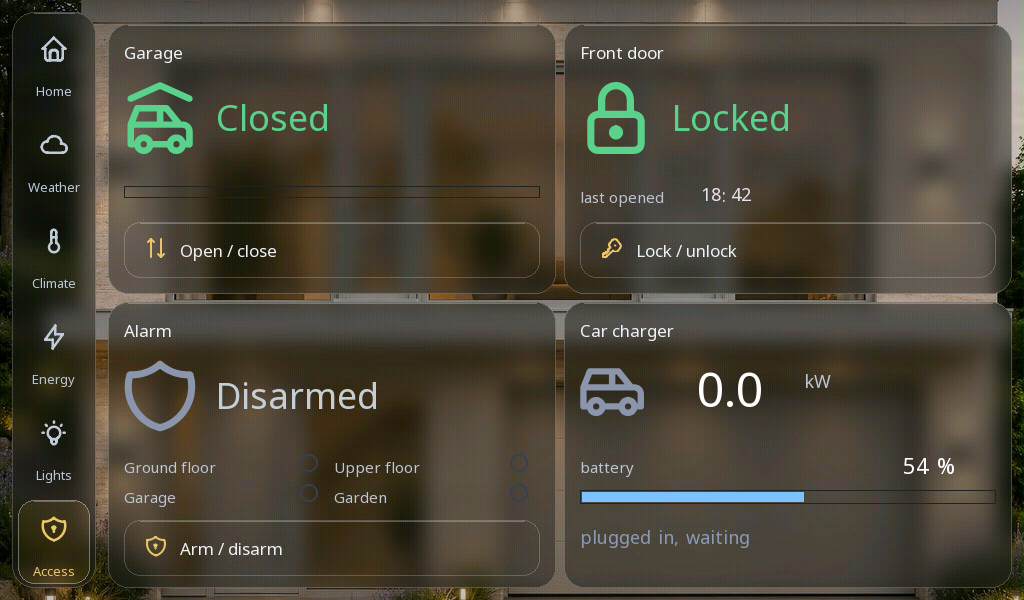
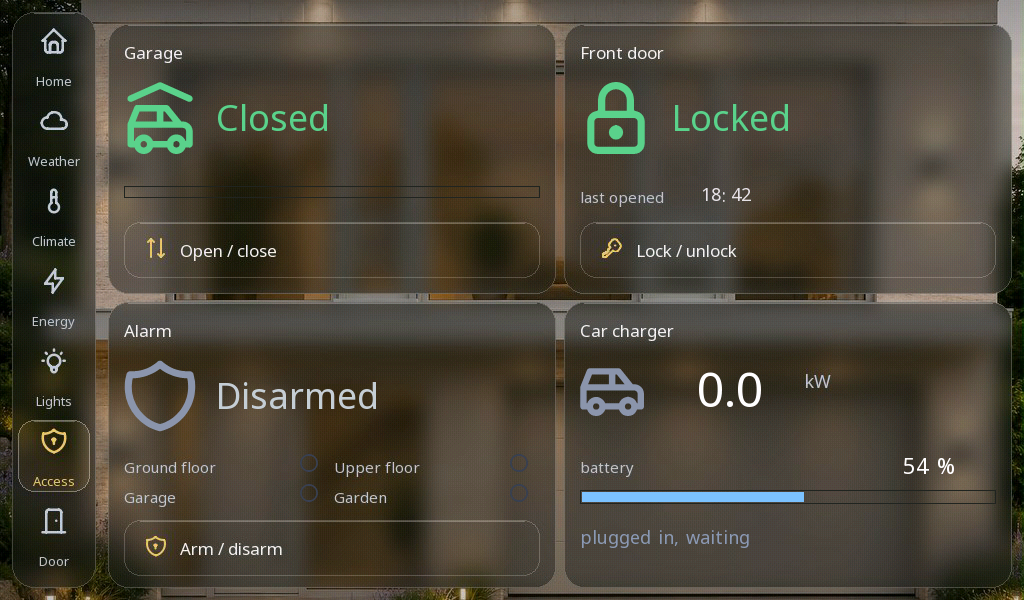
House dashboard: the Door screen and the camera device - seven screens, two devices in one project, the intercom's pictures; the Door paragraph of the intercom page

diff --git a/landing/example-house-dashboard.md b/landing/example-house-dashboard.md
@@ -4,13 +4,14 @@ source: docs/example-house-dashboard.md
 hero: img/house-home.webp
 ---
 
-# A house on one 7" panel - heating, energy, lights and doors behind frosted glass
+# A house on one 7" panel - heating, energy, lights, doors and the camera at the door behind frosted glass
 
-Six dark, translucent screens over photographs of the house they control: the clock and the weather, six heated rooms, the energy flow between the solar panels, the battery, the grid and the car, the lights and the shading, the garage, the front door and the alarm. A simulated house runs behind them, so the dashboard is alive the moment it opens.
+Seven dark, translucent screens over photographs of the house they control: the clock and the weather, six heated rooms, the energy flow between the solar panels, the battery, the grid and the car, the lights and the shading, the garage, the front door and the alarm - and the door itself: the live picture of a small camera device at the door, its bell and the door strike. A simulated house runs behind the screens, so the dashboard is alive the moment it opens; the door is real, a second device of the same project.
 
 ## Who it is for
 - Integrators who build smart-home panels for family houses and apartments
 - Builders of heat-pump, photovoltaic and battery systems who want one wall panel for the whole installation
+- Anyone who wants a door intercom on the wall panel instead of a second system beside it
 - Anyone who wants a premium-looking dashboard without drawing a widget by hand
 - Teams who want to show a complete home panel on the desk before a house is wired
 
@@ -21,15 +22,28 @@ Six dark, translucent screens over photographs of the house they control: the cl
 - **Energy:** the energy flow between the solar panels, the grid, the house, the battery and the car; the battery's charge and power; today's power use split into heating, car and house; today's produced, consumed, exported and imported kWh; the solar output over the last 12 hours and how self-sufficient the house is today
 - **Lights:** eight lights that switch with a touch, three shading positions on sliders, a dimmer, and All on / All off / Evening mood / Night
 - **Access:** the garage door (open, closed or moving) and when it last opened, the front door lock, the alarm with its four zones, and the car charger
+- **Door:** the live picture of the camera at the door, the doorbell with the rings today and the time of the last one, the lock state and the strike, an **Open door** button that releases the strike for five seconds, and the lock button; while the bell rings, a bell appears on the Door tab of every screen
+- The camera device: a thumb-size board with a camera, a bell button and a relay output, running the ordinary runtime - nothing to program on it
 - The setpoints are kept over a restart, and the clock sets itself from the internet
 
 ## How it works
-1. Each screen is one background picture that already carries the frosted cards, the fixed words and the fixed icons; only the live parts - values, state icons, sliders, bars - draw over it.
+1. Each screen is one background picture that already carries the frosted cards, the fixed words and the fixed icons; only the live parts - values, state icons, sliders, bars, the camera - draw over it.
 2. The buttons, switches and the navigation sit under the picture: the picture covers them, a touch still reaches them.
 3. Program `SIM` is the house, one step a second: the outdoor temperature follows the day, the solar output follows the sun, the load has its morning and evening peaks, the rooms heat with hysteresis through the heat pump, the battery takes the surplus and covers the deficit, the grid the rest.
-4. A state icon is two icons at the same place, each shown with `visible_if` on the state and its opposite - a lit and a dark bulb, an open and a closed lock.
+4. A state icon is two icons at the same place, each shown with `visible_if` on the state and its opposite - a lit and a dark bulb, an open and a closed lock, a quiet and a ringing bell.
 5. The large digits are Noto Sans faces carried in the project, 48 and 76 px.
-6. Replace the simulation with the real house: bind the variables to Modbus, MQTT or the panel's own inputs and delete the program `SIM` - the screens stay as they are.
+6. The project is a net32 system of two devices: **panel** (node 1, the P4 on the wall) and **camera** (node 2, a Seeed XIAO ESP32S3 Sense at the door). The camera device serves its picture as a Motion-JPEG stream on its own web address; the panel reads the stream into the Door screen's camera element and decodes every frame in hardware.
+7. The bell button on the camera device is a variable published over net32. The panel subscribes to it: a press counts a ring, records the time, lights the lamp for ten seconds and marks the Door tab on every screen. **Open door** publishes the strike's command for five seconds; the camera device pulses its relay for five seconds at most, whatever the panel says.
+8. Replace the simulation with the real house: bind the variables to Modbus, MQTT or the panel's own inputs and delete the program `SIM` - the screens and the door stay as they are.
+
+## Setting it up
+1. **Open the project.** The tree shows the system's two devices, **panel** and **camera**; the panel carries the seven screens, the **Cameras** node and the **Clock**, the camera device its **WiFi** node and its **Camera** node.
+2. **The camera device's WiFi.** Click its **WiFi**: the mode *STA*, the **Wi-Fi name (SSID)** and the **Wi-Fi password** of the house network. The shipped project carries placeholders; nothing joins until these are yours. The device announces itself on the network as `door-cam.local`.
+3. **The panel.** On Ethernet nothing needs setting - the panel takes its address from the router. The camera's address under **Cameras** is `http://door-cam.local/cam.mjpg`; change it only if you renamed the camera device or gave it a fixed address.
+4. **The camera device's page.** The **Camera** node shows the sensor's settings - 640×480 at 10 frames a second, quality 12 - and its wiring; the pins come from the board, nothing to assign.
+5. **Wiring at the door.** The bell button between pin D0 and GND (the pin's pull-up holds it high, a press pulls it low). The strike's relay module on pin D1: the pin gives a logic level, the module's own driver switches the strike's current.
+6. **Deploy both devices** - the system page deploys them together, or each one with F5 while it is selected. The panel shows the picture a few seconds after both are up; the **camera online** lamp on the Door screen says the camera device is heard over net32.
+7. **Try it.** Press the bell: the lamp on the Door screen rings for ten seconds, the count grows, the time of the ring is kept, and the Door tab of every other screen shows a bell. Press **Open door**: the strike is released for five seconds on the camera device and the screen says so.
 
 ## Pictures
 - ![The Home screen over a photograph of a modern house at dusk: the clock, the day and a greeting, the weather card with a three-day forecast, and four cards along the bottom - the living room, the solar output, the alarm and the scenes](img/house-home.webp) - Home
@@ -38,22 +52,30 @@ Six dark, translucent screens over photographs of the house they control: the cl
 - ![The Energy screen: the energy flow between solar, grid, home, battery and car, the battery ring, the power use split, today's kWh bars and the solar output over the last 12 hours](img/house-energy.webp) - Energy
 - ![The Lights screen: eight light tiles, some lit, three shading sliders, the living-room dimmer and four scene buttons](img/house-lights.webp) - Lights and shading
 - ![The Access screen: the garage door closed, the front door locked, the alarm disarmed with its zones, and the car charger](img/house-access.webp) - Access
+- ![The Door screen: the camera element, the doorbell ringing, the front door locked with the strike released, the Open door and Lock buttons, and the camera online with one ring today](img/house-door.webp) - Door: the intercom
+- ![The net32 system in the editor: the camera device as node 2 with bell and door_rel, the panel as node 1 with door_rel and bell](img/house-system.webp) - Two devices, one net32 system
 
 ## Runs on
-- Makerfabs MaTouch ESP32-P4 7" (1024×600)
-- Nothing needed to start: the simulated house runs on the panel and in the editor's simulation
+- The panel: Makerfabs MaTouch ESP32-P4 7" (1024×600), on Ethernet or WiFi
+- The camera device: Seeed XIAO ESP32S3 Sense at the door, on WiFi - the camera on its expansion board, the bell button on D0, the strike's relay on D1
+- Nothing needed to start: the simulated house runs on the panel and in the editor's simulation; without the camera device the Door screen shows the camera element empty and the camera lamp dark
 
 ## Facts to keep exact
-- Six screens: Home, Weather, Climate, Energy, Lights, Access; the navigation bar on the left of every screen
+- Seven screens: Home, Weather, Climate, Energy, Lights, Access, Door; the navigation bar on the left of every screen
 - Six heated rooms: living room, kitchen, bedroom, kids' room, bathroom, office; − and + change the setpoint
 - Three scenes on Home: Evening, Away, Night
 - Eight lights: facade, garden, path, entrance, living room, kitchen, dining, terrace; three shading sliders: living room, bedroom, office
 - Four alarm zones: ground floor, upper floor, garage, garden
 - The energy flow shows solar, grid, home, battery and car; the battery shows charging or discharging
+- Two devices, one net32 system: panel = node 1, camera = node 2; the camera device publishes `bell`, the panel publishes `door_rel`
+- The camera: 640×480 at 10 frames a second, JPEG quality 12; the stream at `http://door-cam.local/cam.mjpg`, the latest frame at `/cam.jpg`
+- The bell button on the camera device's D0 (to GND), the strike's relay on its D1; the strike is released for 5 s at most, on both sides
+- A ring lights the lamp for 10 s, counts (the count starts over at midnight) and records the time; the Door tab of every screen shows a bell while it rings
+- The shipped project carries placeholder WiFi settings on the camera device; the panel needs none on Ethernet
 - Setpoints are retained variables, kept over a restart
 - The clock is set over NTP, Central European time
 - The frosted look is baked into the backgrounds: the runtime draws no translucent fill
-- The simulation steps once a second
+- The simulation steps once a second; the door is not simulated
 
 ## Call to action
 Download the ctrl32 editor and open the shipped project `examples\house_dashboard.prj32`.

diff --git a/docs/intercom.md b/docs/intercom.md
@@ -63,11 +63,18 @@ says once what stopped it. The INFO line carries
 ## The bell and the door
 
 The camera device has free pins: a bell button on one of them is a
-BOOL variable published over net32; the panel subscribes to it, lights a
-lamp, opens the Door screen on its edge, and a button on that screen
-writes the door variable the device with the relay owns. All of it is
-the net32 and screen work described elsewhere; the house dashboard
-example carries a Door screen built this way.
+BOOL variable published over net32, and a relay for the door strike on
+another follows a command the panel publishes. The panel subscribes to
+the bell, counts the rings, keeps the time of the last one, lights a
+lamp and marks the Door tab on every screen while it rings; its **Open
+door** button raises the strike's command for five seconds, and the
+camera device's own program holds the relay for five seconds at most,
+whatever the panel says. All of it is the net32 and screen work
+described elsewhere; the house dashboard example carries a Door screen
+built this way - the camera element, the bell, the strike and the lock
+on one screen, the two devices in one project.
+
+![The Door screen of the house dashboard: the camera element, the doorbell ringing, the front door locked with the strike released, the camera online with one ring today](img/house-door.webp){: .sb-center}
 
 ## Numbers to plan with
 

diff --git a/export/Vision/intercom.md b/export/Vision/intercom.md
@@ -72,11 +72,18 @@ says once what stopped it. The INFO line carries
 ## The bell and the door
 
 The camera device has free pins: a bell button on one of them is a
-BOOL variable published over net32; the panel subscribes to it, lights a
-lamp, opens the Door screen on its edge, and a button on that screen
-writes the door variable the device with the relay owns. All of it is
-the net32 and screen work described elsewhere; the house dashboard
-example carries a Door screen built this way.
+BOOL variable published over net32, and a relay for the door strike on
+another follows a command the panel publishes. The panel subscribes to
+the bell, counts the rings, keeps the time of the last one, lights a
+lamp and marks the Door tab on every screen while it rings; its **Open
+door** button raises the strike's command for five seconds, and the
+camera device's own program holds the relay for five seconds at most,
+whatever the panel says. All of it is the net32 and screen work
+described elsewhere; the house dashboard example carries a Door screen
+built this way - the camera element, the bell, the strike and the lock
+on one screen, the two devices in one project.
+
+![The Door screen of the house dashboard: the camera element, the doorbell ringing, the front door locked with the strike released, the camera online with one ring today](img/house-door.webp){: .sb-center}
 
 ## Numbers to plan with
 
